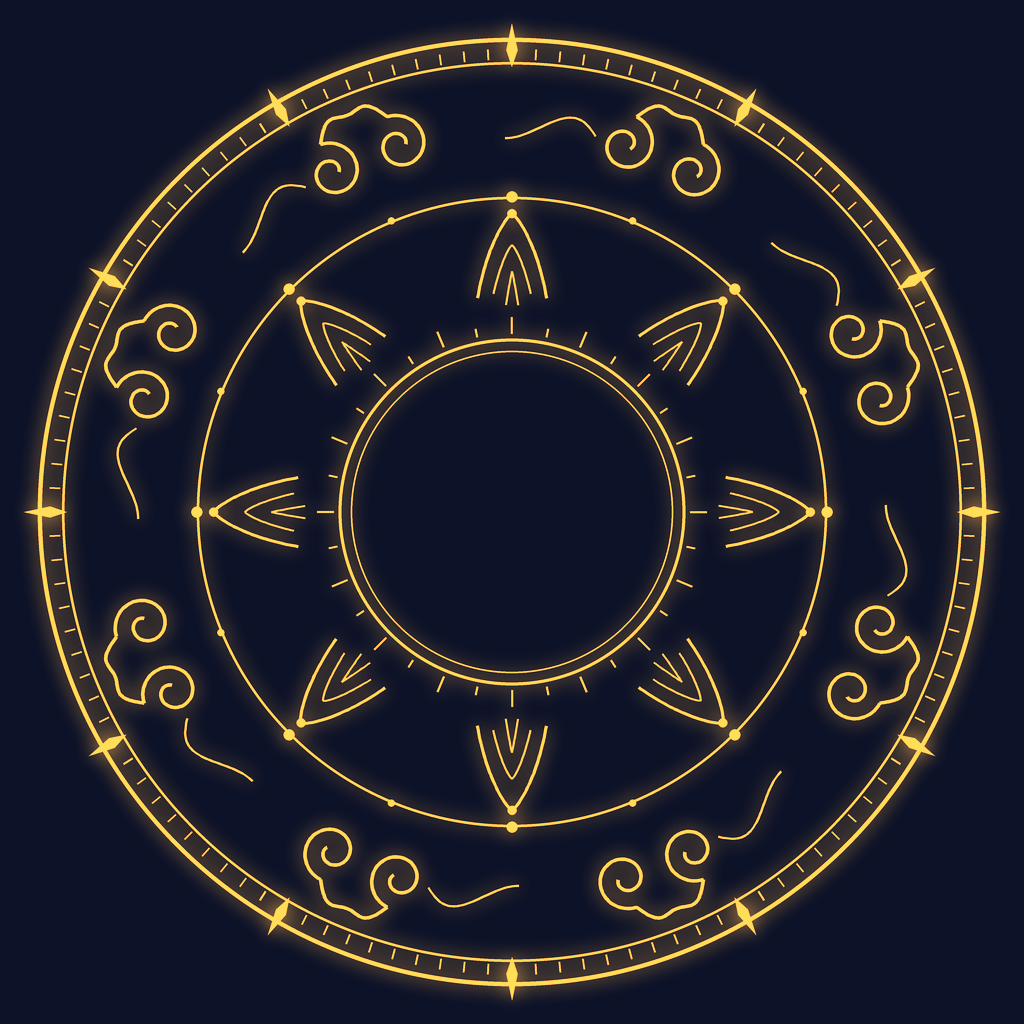
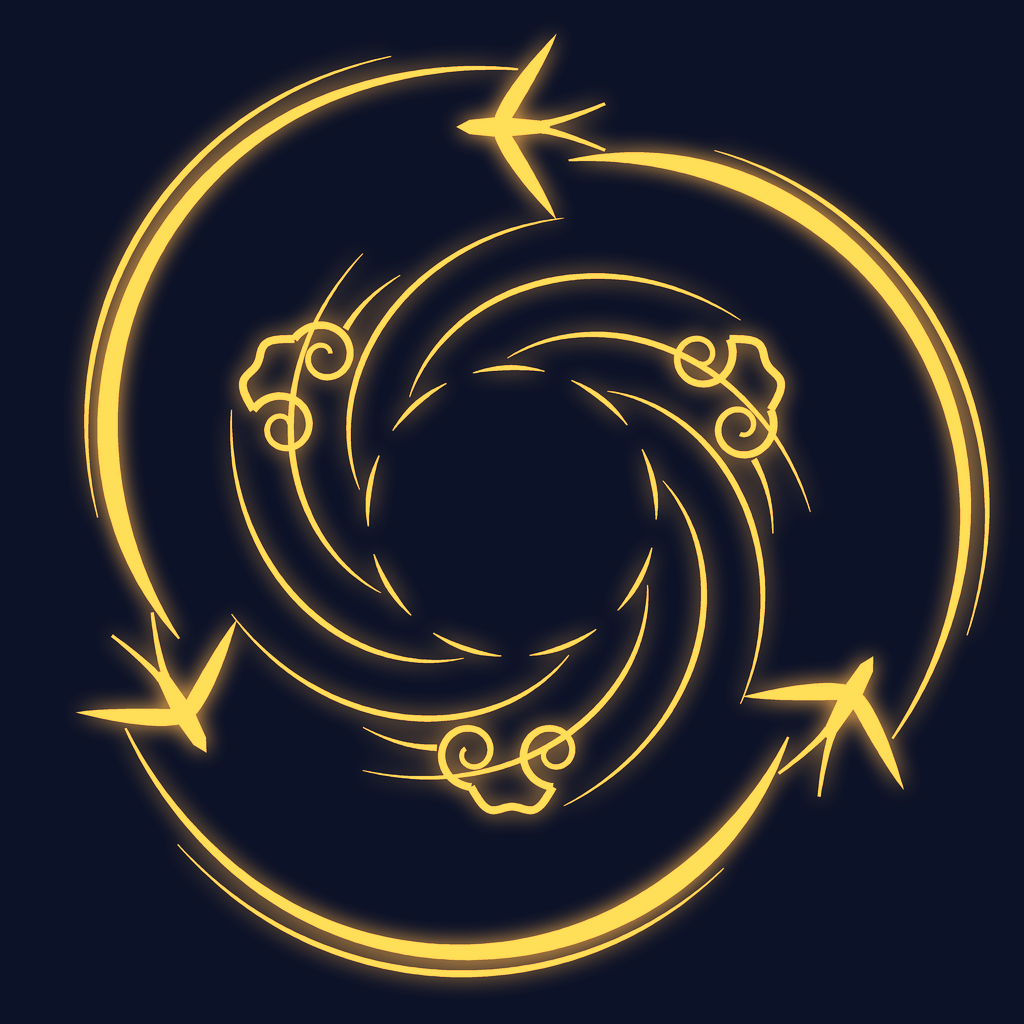
Redesign the Ascendant Seal as three swallows in an updraft

diff --git a/tools/vfx/ascendant_seal.py b/tools/vfx/ascendant_seal.py
@@ -1,17 +1,21 @@
-"""The Ascendant Seal: Realm 5's ground circle (the owner asked for "a better circle", 2026-11-03).
-Our own, drawn line by line. White on transparent: the game tints it (the owner's gold 255,170,40).
-No text in any language (the game's fixed directive): only rings, ticks, clouds and wings.
+"""The Ascendant Seal: Realm 5's ground circle. White on transparent: the game tints it (the owner's
+gold 255,170,40). No text in any language (the game's fixed directive): birds, clouds and wind only.
 
-From the rim inward:
-  a double rim, fine ticks between, a small diamond every 30 degrees;
-  eight auspicious clouds (ruyi scrolls), the clouds an Ascendant rises on;
-  a ring with sixteen beads;
-  eight swallow wings pointing outward, climbing (the realm's Skyrise swallow);
-  a ring of short sun rays round an open centre (the body stands there).
+Second design (2026-11-03). The owner called the first "too generic": eight repeated motifs in
+rings with ticks is every magic circle. This one is a scene in motion, not a ring of symbols:
+  three swallows chase each other round the circle (the realm's Skyrise swallow), flying clockwise;
+  each one's long tail streamer sweeps back and swells outward into the border, flowing into the
+  next bird, so the edge is three living strokes, not a drawn ring;
+  inside, an updraft: wind lines spiral in toward the feet, and three large auspicious clouds ride
+  the current between the birds;
+  the centre stays open (the body stands there).
+Rotational symmetry of three, curves only, nothing straight: it reads as climbing and turning even
+when still.
 
     python3 ascendant_seal.py assets/aura/ascendant     (needs Pillow and numpy)
 
-  AscendantSeal.png  1024x1024
+  AscendantSeal.png          1024x1024, the texture
+  AscendantSeal_preview.png  in the owner's gold on a dark ground
 """
 import math
 import os
@@ -22,135 +26,145 @@ from PIL import Image, ImageDraw, ImageFilter
 
 OUT = sys.argv[1]
 os.makedirs(OUT, exist_ok=True)
-SS = 4                        # drawn at 4x and reduced, for clean lines
+SS = 4                        # drawn at 4x and reduced, for clean edges
 W = 1024 * SS
 C = W / 2
-R = W * 0.47                  # radius 1.0; the image keeps a clear margin past it
+R = W * 0.47                  # radius 1.0; a clear margin past it
 TAU = math.tau
+BIRDS = 3
+FLIGHT = -1                   # clockwise on screen (y runs down): angles decrease as the birds fly
 
 layer = Image.new("L", (W, W), 0)
 d = ImageDraw.Draw(layer)
 
 
-def px(r, a):
-    """a point at radius r (0-1) and angle a"""
-    return (C + R * r * math.cos(a), C + R * r * math.sin(a))
+def to_px(x, y):
+    return (C + R * x, C + R * y)
 
 
-LINE = 1.35                   # every line a third thicker: at 5 studs across, thin lines shimmer away
+def polar(r, a):
+    return (r * math.cos(a), r * math.sin(a))
 
 
-def ring(r, width):
-    d.ellipse([C - R * r, C - R * r, C + R * r, C + R * r], outline=255, width=int(width * LINE * SS))
+def ribbon(centre, widths):
+    """a filled stroke along a centre line with a width at every point (tapering ends, no caps)"""
+    pts = np.asarray(centre)
+    left, right = [], []
+    for i, (p, w) in enumerate(zip(pts, widths)):
+        a = pts[max(i - 1, 0)]
+        b = pts[min(i + 1, len(pts) - 1)]
+        t = b - a
+        t = t / (np.hypot(*t) or 1)
+        n = np.array([-t[1], t[0]])
+        left.append(to_px(*(p + n * w / 2)))
+        right.append(to_px(*(p - n * w / 2)))
+    d.polygon(left + right[::-1], fill=255)
 
 
-def line(points, width):
-    d.line(points, fill=255, width=int(width * LINE * SS), joint="curve")
+def swallow(r, a, size):
+    """a swallow at radius r, angle a, flying along the circle in FLIGHT's direction: a slim body,
+    long swept wings, a deep forked tail. Local x points forward, y to the bird's left"""
+    fwd = np.array([-math.sin(a), math.cos(a)]) * FLIGHT
+    left = np.array([-fwd[1], fwd[0]])
+    base = np.array(polar(r, a))
+
+    def P(x, y):
+        q = base + size * (x * fwd + y * left)
+        return to_px(*q)
+
+    body = [P(0.55, 0), P(0.42, 0.07), P(0.12, 0.1), P(-0.3, 0.06), P(-0.38, 0), P(-0.3, -0.06), P(0.12, -0.1), P(0.42, -0.07)]
+    d.polygon(body, fill=255)
+    for side in (1, -1):
+        # the wing: a long crescent swept back, its leading edge curved, its trailing edge hollowed
+        lead = [P(0.18 - 0.62 * k ** 1.15, side * (0.06 + 0.86 * k ** 0.85)) for k in np.linspace(0, 1, 24)]
+        trail = [P(-0.44 + 0.46 * k ** 0.8, side * (0.92 - 0.86 * k ** 0.7)) for k in np.linspace(0, 1, 24)]
+        d.polygon(lead + trail, fill=255)
+        # the tail: a fork of two long streamers
+        prong = [P(-0.3 - 0.62 * k, side * (0.03 + 0.2 * k ** 1.3)) for k in np.linspace(0, 1, 16)]
+        ribbon([np.array([(c[0] - C) / R, (c[1] - C) / R]) for c in prong], np.linspace(0.05 * size * 1.4, 0.006, 16))
 
 
-def dot(p, radius):
-    rr = radius * SS
-    d.ellipse([p[0] - rr, p[1] - rr, p[0] + rr, p[1] + rr], fill=255)
+def streamer(a0):
+    """the tail streamer behind a bird at angle a0: it sweeps back round the circle against the
+    flight, swelling outward into the border and tapering away just behind the next bird"""
+    span = TAU / BIRDS * 0.93
+    k = np.linspace(0, 1, 160)
+    ang = a0 - FLIGHT * (0.16 + span * k)
+    rad = 0.74 + 0.22 * np.sin(np.minimum(k * 1.25, 1) * math.pi / 2) - 0.04 * k ** 3
+    centre = [np.array(polar(r, t)) for r, t in zip(rad, ang)]
+    width = 0.05 * np.sin(np.clip(k * 3.2, 0, 1) * math.pi / 2) * (1 - k) ** 0.8 + 0.004
+    ribbon(centre, width)
+    # a fine line riding outside it, offset a little, starting later and ending sooner
+    k2 = np.linspace(0.18, 0.86, 120)
+    ang2 = a0 - FLIGHT * (0.16 + span * k2)
+    rad2 = 0.74 + 0.22 * np.sin(np.minimum(k2 * 1.25, 1) * math.pi / 2) - 0.04 * k2 ** 3 + 0.045
+    ribbon([np.array(polar(r, t)) for r, t in zip(rad2, ang2)], 0.012 * np.sin((k2 - 0.18) / 0.68 * math.pi) + 0.002)
 
 
-# --- the rim: two rings, fine ticks between, a diamond every 30 degrees --------------------
-ring(0.985, 3.2)
-ring(0.935, 2.0)
-for k in range(120):
-    a = k * TAU / 120
-    long = k % 10 == 0
-    line([px(0.94, a), px(0.98 if long else 0.962, a)], 2.2 if long else 1.3)
-for k in range(12):
-    a = k * TAU / 12
-    pts = [px(0.985 + 0.03, a), px(0.96, a + 0.012), px(0.985 - 0.06, a), px(0.96, a - 0.012)]
-    d.polygon(pts, fill=255)
+def cloud(r0, a, s):
+    """a large auspicious cloud riding the current: two scrolls curling in under a lobed crown,
+    its lobes facing outward"""
+    t = np.array([-math.sin(a), math.cos(a)])
+    n = np.array([math.cos(a), math.sin(a)])
+    base = np.array(polar(r0, a))
 
-# --- the clouds: eight ruyi scrolls on the band, lobes outward ------------------------------
-
-
-def cloud(theta, r0, s):
-    """one auspicious cloud at angle theta, centred at radius r0, size s (in radius units).
-    Local u runs along the ring, v outward; two scrolls curl inward under a three-lobed crown,
-    with a wisp trailing behind (all of it in the direction the seal turns)"""
-    t = (-math.sin(theta), math.cos(theta))      # along the ring
-    n = (math.cos(theta), math.sin(theta))       # outward
-
-    def P(u, v):
-        x = r0 * n[0] + s * (u * t[0] + v * n[0])
-        y = r0 * n[1] + s * (u * t[1] + v * n[1])
-        return (C + R * x, C + R * y)
+    def Q(u, v):
+        return base + s * (u * t + v * n)
 
     def spiral(cu, side):
-        # from the crown's foot, curling inward round (cu, 0): 1.3 turns, the radius shrinking
         pts = []
-        for i in range(80):
-            k = i / 79
-            ang = math.pi / 2 + side * k * TAU * 1.3
-            rad = 0.42 * (1 - 0.78 * k)
-            pts.append(P(cu + side * rad * math.cos(ang) * -1, rad * math.sin(ang)))
+        for i in range(90):
+            k = i / 89
+            ang = math.pi / 2 + side * k * TAU * 1.35
+            rad = 0.42 * (1 - 0.8 * k)
+            pts.append(Q(cu - side * rad * math.cos(ang), rad * math.sin(ang)))
         return pts
 
-    line(spiral(-0.5, 1), 2.6)
-    line(spiral(0.5, -1), 2.6)
-    # the crown: a big middle lobe between two small ones, over the scrolls
-    crown = []
-    for i in range(61):
-        k = i / 60
-        u = -0.5 + k
-        v = 0.42 + 0.30 * math.sin(math.pi * k) + 0.07 * math.sin(3 * math.pi * k)
-        crown.append(P(u, v))
-    line(crown, 2.6)
-    # a wisp trailing behind, thinning
-    wisp = [P(-0.5 - 0.42 - 1.15 * k, -0.05 + 0.16 * math.sin(k * math.pi * 1.6) - 0.35 * k * k) for k in np.linspace(0, 1, 40)]
-    line(wisp, 1.8)
+    for cu, side in ((-0.5, 1), (0.5, -1)):
+        pts = spiral(cu, side)
+        ribbon(pts, np.linspace(0.016, 0.009, len(pts)))
+    crown = [Q(-0.5 + k, 0.42 + 0.32 * math.sin(math.pi * k) + 0.08 * math.sin(3 * math.pi * k)) for k in np.linspace(0, 1, 70)]
+    ribbon(crown, np.full(70, 0.016))
+    # its tail streams with the wind, along the flight
+    tail = [Q(0.92 + 0.9 * k, -0.06 - 0.25 * k * k) for k in np.linspace(0, 1, 40)]
+    ribbon(tail, np.linspace(0.013, 0.002, 40))
 
 
-for k in range(8):
-    cloud(k * TAU / 8 + TAU / 16, 0.795, 0.15)
-
-# --- a beaded ring --------------------------------------------------------------------------
-ring(0.655, 2.0)
-for k in range(16):
-    dot(px(0.655, k * TAU / 16), 5.5 if k % 2 == 0 else 3.5)
-
-# --- eight swallow wings, pointing outward ---------------------------------------------------
-
-
-def wing(theta):
-    """two swept wings meeting at a point outward, a forked tail inward: a swallow climbing"""
-    def P(r, da):
-        return px(r, theta + da)
-    for side in (1, -1):
-        outer = [P(0.62 - 0.17 * k, side * (0.0 + 0.16 * k ** 0.8)) for k in np.linspace(0, 1, 30)]
-        line(outer, 2.4)
-        inner = [P(0.555 - 0.10 * k, side * (0.0 + 0.085 * k ** 0.8)) for k in np.linspace(0, 1, 20)]
-        line(inner, 1.6)
-        tail = [P(0.50 - 0.07 * k, side * 0.03 * k) for k in np.linspace(0, 1, 12)]
-        line(tail, 1.6)
-    dot(P(0.62, 0), 4.5)
+def updraft():
+    """wind lines spiralling in toward the feet, turning the same way the birds fly"""
+    arms = 9
+    for j in range(arms):
+        a0 = j * TAU / arms
+        k = np.linspace(0, 1, 120)
+        rad = 0.62 - 0.30 * k
+        ang = a0 + FLIGHT * 1.6 * k
+        centre = [np.array(polar(r, t)) for r, t in zip(rad, ang)]
+        width = 0.011 * np.sin(k * math.pi) ** 0.8 + 0.0015
+        ribbon(centre, width)
 
 
-for k in range(8):
-    wing(k * TAU / 8)
+for b in range(BIRDS):
+    a = -math.pi / 2 + b * TAU / BIRDS
+    swallow(0.80, a, 0.21)
+    streamer(a)
+    cloud(0.50, a - FLIGHT * TAU / BIRDS / 2, 0.17)
+updraft()
+# the eye of the updraft: one soft ring round the open centre, broken where the wind enters
+for j in range(9):
+    a0 = j * TAU / 9 + 0.25
+    arc = [np.array(polar(0.30, a0 + 0.5 * k)) for k in np.linspace(0, 1, 30)]
+    ribbon(arc, 0.008 * np.sin(np.linspace(0, math.pi, 30)) + 0.002)
 
-# --- sun rays round the open centre ----------------------------------------------------------
-ring(0.36, 2.4)
-ring(0.335, 1.2)
-for k in range(32):
-    a = k * TAU / 32
-    line([px(0.37, a), px(0.405 if k % 2 == 0 else 0.388, a)], 1.6)
-
-# --- glow under every line, then reduce ------------------------------------------------------
-glow = layer.filter(ImageFilter.GaussianBlur(9 * SS)).point(lambda v: int(min(255, v * 1.5)))
-alpha = np.maximum(np.asarray(layer, dtype=float), np.asarray(glow, dtype=float) * 0.55)
+# glow under every stroke, then reduce
+glow = layer.filter(ImageFilter.GaussianBlur(10 * SS)).point(lambda v: int(min(255, v * 1.6)))
+alpha = np.maximum(np.asarray(layer, dtype=float), np.asarray(glow, dtype=float) * 0.5)
 alpha = Image.fromarray(alpha.astype(np.uint8)).resize((1024, 1024), Image.LANCZOS)
 rgba = Image.new("RGBA", (1024, 1024), (255, 255, 255, 0))
 rgba.putalpha(alpha)
 rgba.save(os.path.join(OUT, "AscendantSeal.png"))
 
-# a preview on a dark ground, in the owner's gold
-a = np.asarray(alpha, dtype=float)[:, :, None] / 255
+av = np.asarray(alpha, dtype=float)[:, :, None] / 255
 gold = np.array([255, 170, 40], dtype=float)
 bg = np.array([12, 18, 40], dtype=float)
-Image.fromarray(np.clip(bg + a * gold * 1.2, 0, 255).astype(np.uint8)).save(os.path.join(OUT, "AscendantSeal_preview.png"))
+Image.fromarray(np.clip(bg + av * gold * 1.2, 0, 255).astype(np.uint8)).save(os.path.join(OUT, "AscendantSeal_preview.png"))
 print("written:", sorted(os.listdir(OUT)))
